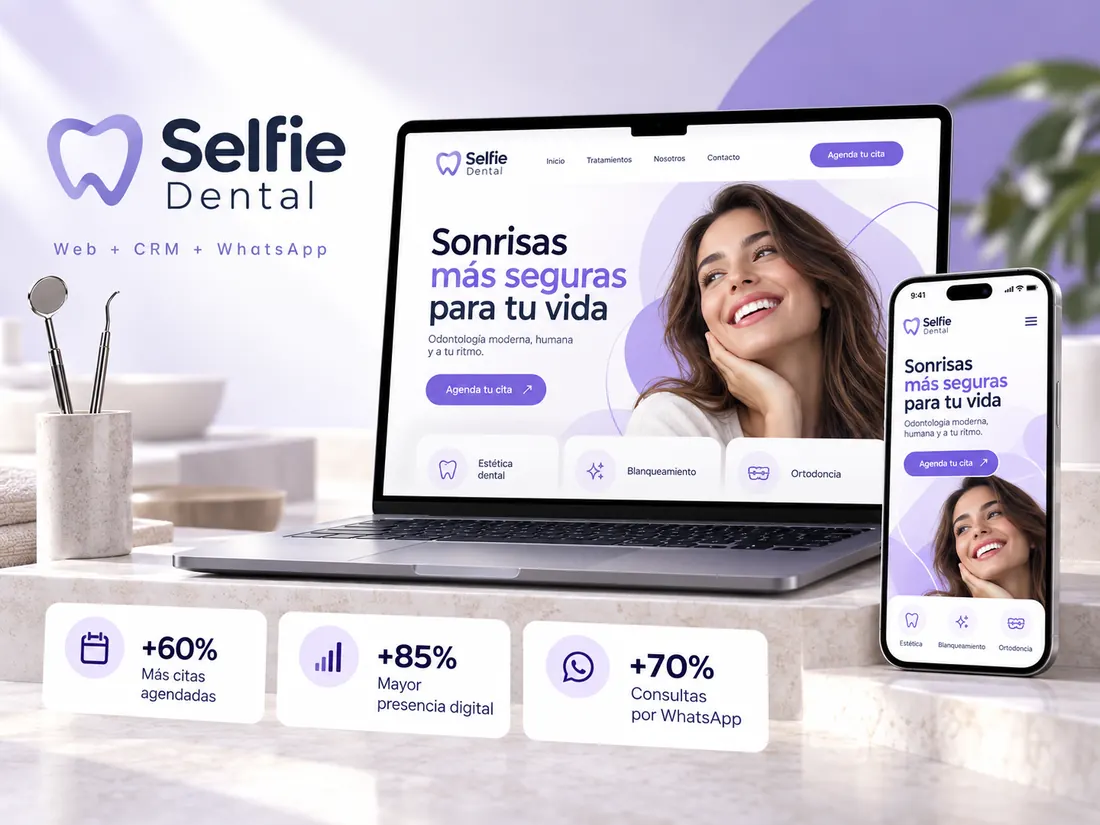
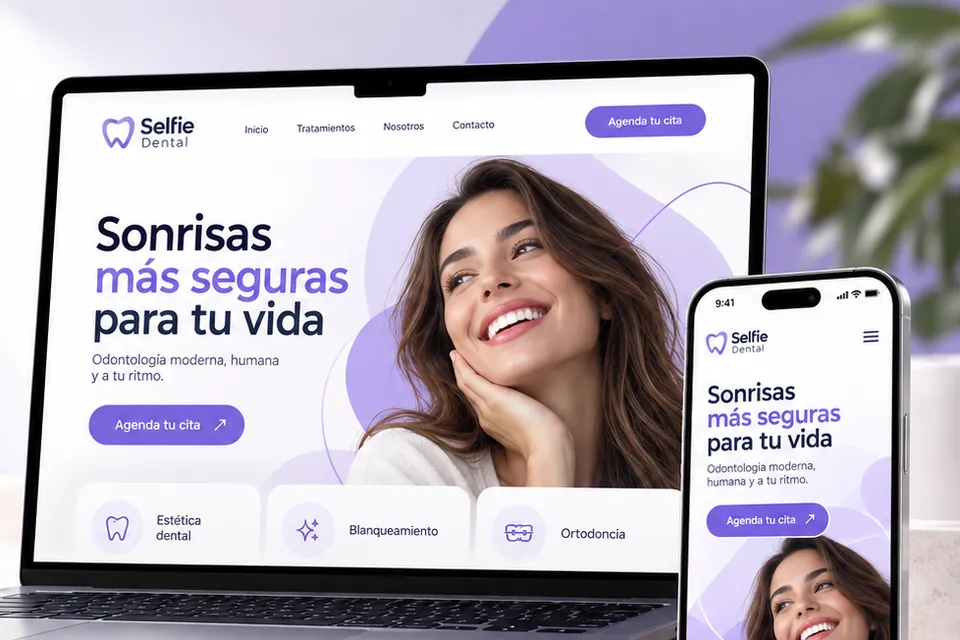
Proyectos como conceptos: quitar métricas no reales
Raíces Santorini, Selfie Dental y Yakutours son conceptos de diseño, no
clientes con resultados medidos. Se renombra la sección a "Proyectos
recientes" con etiqueta "Concepto", se quitan las cifras del hero, de los
casos y de las imágenes (recortadas), y la franja de clientes pasa a
mostrar los sectores que atendemos.

diff --git a/index.html b/index.html
@@ -89,7 +89,7 @@
       <a class="logo" href="#inicio"><img src="assets/img/aida-logo.webp" width="400" height="167" alt="AIDA Digital Solutions, inicio"></a>
       <button class="menu-toggle" type="button" aria-controls="site-nav" aria-expanded="false"><span class="sr-only" data-menu-label>Abrir menú</span><span aria-hidden="true"></span><span aria-hidden="true"></span></button>
       <nav class="site-nav" id="site-nav" aria-label="Navegación principal">
-        <a href="#servicios">Servicios</a><a href="#proyectos">Casos</a><a href="#proceso">Cómo trabajamos</a><a href="#nosotros">Equipo</a><a href="#preguntas">Preguntas</a>
+        <a href="#servicios">Servicios</a><a href="#proyectos">Proyectos</a><a href="#proceso">Cómo trabajamos</a><a href="#nosotros">Equipo</a><a href="#preguntas">Preguntas</a>
       </nav>
       <a class="button button-small header-cta" href="#formulario">Diagnóstico gratis <b aria-hidden="true">→</b></a>
     </div>
@@ -102,22 +102,23 @@
       <div class="hero-copy">
         <h1>Convertimos tu web y tu WhatsApp en un sistema que <em>vende.</em></h1>
         <p>Web, SEO, CRM y automatización con IA, conectados. Para inmobiliarias, clínicas, turismo y negocios de servicios que quieren más clientes con menos trabajo manual.</p>
-        <div class="actions"><a class="button" href="#formulario">Agenda tu diagnóstico gratis <b aria-hidden="true">→</b></a><a class="button button-outline" href="#proyectos">Ver casos reales</a></div>
+        <div class="actions"><a class="button" href="#formulario">Agenda tu diagnóstico gratis <b aria-hidden="true">→</b></a><a class="button button-outline" href="#proyectos">Ver proyectos</a></div>
         <ul class="facts">
           <li><strong>+50</strong><span>proyectos<br>lanzados</span></li>
-          <li><strong>+68%</strong><span>reservas en línea<br>para Yakutours</span></li>
-          <li><strong>+60%</strong><span>citas agendadas<br>para Selfie Dental</span></li>
+          <li><strong>4</strong><span>especialistas,<br>un solo equipo</span></li>
+          <li><strong>7</strong><span>etapas conectadas<br>en tu sistema</span></li>
         </ul>
       </div>
     </section>
 
-    <section class="trust-strip" aria-label="Clientes">
+    <section class="trust-strip" aria-label="Sectores">
       <div class="trust-inner">
-        <p>Negocios que ya crecen con AIDA</p>
+        <p>Sistemas digitales para</p>
         <ul>
-          <li><b>Raíces Santorini</b><span>Inmobiliario</span></li>
-          <li><b>Selfie Dental</b><span>Salud</span></li>
-          <li><b>Yakutours</b><span>Turismo</span></li>
+          <li><b>Inmobiliarias</b></li>
+          <li><b>Clínicas y salud</b></li>
+          <li><b>Turismo y hoteles</b></li>
+          <li><b>Negocios de servicios</b></li>
         </ul>
       </div>
     </section>
@@ -210,27 +211,24 @@
 
     <section class="cases section" id="proyectos">
       <div class="cases-intro reveal">
-        <div><p class="eyebrow">CASOS DE ÉXITO</p><h2>Negocios como el tuyo,<br><span>ya creciendo.</span></h2></div>
-        <p>Cada proyecto empieza con un problema de negocio concreto y termina con un número que se puede medir.</p>
+        <div><p class="eyebrow">PROYECTOS RECIENTES</p><h2>Así se ve un <span>sistema AIDA.</span></h2></div>
+        <p>Conceptos de diseño desarrollados por nuestro equipo para distintos sectores. Pronto, casos con resultados de clientes.</p>
       </div>
       <div class="case-list">
         <article class="case-card reveal reveal-image">
-          <img src="assets/img/case-raices.webp" width="1100" height="825" loading="lazy" decoding="async" alt="Landing de Raíces Santorini, proyecto residencial en Cayambe, en laptop y celular">
-          <div class="case-meta"><b>Raíces Santorini</b><span>Inmobiliario</span></div>
+          <img src="assets/img/case-raices.webp" width="960" height="640" loading="lazy" decoding="async" alt="Concepto de landing para Raíces Santorini, proyecto residencial en Cayambe, en laptop y celular">
+          <div class="case-meta"><b>Raíces Santorini</b><span>Inmobiliario</span><span class="case-tag">Concepto</span></div>
           <p class="case-scope">Landing + WhatsApp + SEO</p>
-          <p class="case-result"><strong>+60%</strong> leads más calificados</p>
         </article>
         <article class="case-card reveal reveal-image">
-          <img src="assets/img/case-selfie-dental.webp" width="1100" height="825" loading="lazy" decoding="async" alt="Sitio web de Selfie Dental con agenda de citas, en laptop y celular">
-          <div class="case-meta"><b>Selfie Dental</b><span>Salud</span></div>
+          <img src="assets/img/case-selfie-dental.webp" width="960" height="640" loading="lazy" decoding="async" alt="Concepto de sitio web para Selfie Dental con agenda de citas, en laptop y celular">
+          <div class="case-meta"><b>Selfie Dental</b><span>Salud</span><span class="case-tag">Concepto</span></div>
           <p class="case-scope">Web + CRM + WhatsApp</p>
-          <p class="case-result"><strong>+60%</strong> citas agendadas</p>
         </article>
         <article class="case-card reveal reveal-image">
-          <img src="assets/img/case-yakutours.webp" width="1100" height="825" loading="lazy" decoding="async" alt="Sitio web de Yakutours con buscador de tours en Ecuador, en laptop y celular">
-          <div class="case-meta"><b>Yakutours</b><span>Turismo</span></div>
+          <img src="assets/img/case-yakutours.webp" width="960" height="640" loading="lazy" decoding="async" alt="Concepto de sitio web para Yakutours con buscador de tours en Ecuador, en laptop y celular">
+          <div class="case-meta"><b>Yakutours</b><span>Turismo</span><span class="case-tag">Concepto</span></div>
           <p class="case-scope">Rediseño web + reservas</p>
-          <p class="case-result"><strong>+68%</strong> reservas en línea</p>
         </article>
       </div>
     </section>
@@ -321,7 +319,7 @@
   <footer>
     <div class="wrap footer-inner">
       <a class="logo footer-logo" href="#inicio"><img src="assets/img/aida-logo.webp" width="400" height="167" loading="lazy" alt="AIDA Digital Solutions, inicio"></a>
-      <nav aria-label="Navegación de pie"><a href="#servicios">Servicios</a><a href="#proyectos">Casos</a><a href="#proceso">Cómo trabajamos</a><a href="#nosotros">Equipo</a><a href="#formulario">Diagnóstico gratis</a><a href="privacidad.html">Privacidad</a></nav>
+      <nav aria-label="Navegación de pie"><a href="#servicios">Servicios</a><a href="#proyectos">Proyectos</a><a href="#proceso">Cómo trabajamos</a><a href="#nosotros">Equipo</a><a href="#formulario">Diagnóstico gratis</a><a href="privacidad.html">Privacidad</a></nav>
       <p>Ideas digitales para un <span>mundo <em>real.</em></span></p>
       <ul class="contact-links contact-links-footer" data-contact-links hidden></ul>
       <small>© <span data-year>2026</span> AIDA Digital Solutions</small>

diff --git a/styles.css b/styles.css
@@ -164,6 +164,7 @@ a:focus-visible, button:focus-visible, input:focus-visible { outline: 3px solid 
 .case-meta { display: flex; gap: 8px; align-items: center; margin-top: 18px }
 .case-meta span, .case-meta b { padding: 7px 12px; border-radius: 999px; background: #e8f3ff; font-size: 12px }
 .case-meta b { background: var(--navy); color: #fff }
+.case-meta .case-tag { background: transparent; border: 1px solid #bcc9d9; color: var(--muted) }
 .case-scope { margin: 12px 0 0; color: var(--muted); font-size: 14px; font-weight: 700 }
 .case-result { margin: 4px 0 0; font-size: 14px }
 .case-result strong { margin-right: 4px; color: var(--blue); font-size: 22px; letter-spacing: -.02em }
@@ -172,10 +173,10 @@ a:focus-visible, button:focus-visible, input:focus-visible { outline: 3px solid 
 .trust-strip { padding: 22px var(--edge); background: var(--navy); color: #fff }
 .trust-inner { width: min(1280px, 100%); margin: auto; display: flex; align-items: center; justify-content: space-between; gap: 18px 40px; flex-wrap: wrap }
 .trust-inner p { margin: 0; color: #b5c1d0; font-size: 13px; font-weight: 700; letter-spacing: .04em }
-.trust-inner ul { display: flex; flex-wrap: wrap; gap: 14px 44px; margin: 0; padding: 0; list-style: none }
+.trust-inner ul { display: flex; flex-wrap: wrap; gap: 10px 12px; margin: 0; padding: 0; list-style: none }
 .trust-inner li { display: flex; align-items: baseline; gap: 10px }
-.trust-inner b { font-size: 18px; letter-spacing: -.02em }
-.trust-inner span { color: #7fa6ff; font-size: 12px; font-weight: 700 }
+.trust-inner b { font-size: 17px; letter-spacing: -.01em }
+.trust-inner li + li::before { content: "·"; margin-right: 12px; color: #7fa6ff }
 
 /* process */
 .process { background: #fff }

diff --git a/DECISIONS.md b/DECISIONS.md
@@ -4,6 +4,6 @@
 - La composición orbital es una interpretación editorial inspirada en la forma de la marca, no una copia del logo.
 - No se han inventado logos de clientes, testimonios, resultados, premios, casos, precios, personas, canales de contacto ni otras pruebas de marca. Tampoco se usaron imágenes de stock o generadas.
 - El formulario se envía al `formEndpoint` configurado en `app.js`, o en su defecto abre WhatsApp o correo con el mensaje redactado. Nunca confirma un envío que no ocurrió.
-- Las cifras de los casos (+60%, +68%) se tomaron de los mockups entregados por el cliente.
+- Raíces Santorini, Selfie Dental y Yakutours son conceptos de diseño, no clientes con resultados medidos: se muestran como «Proyectos recientes» con la etiqueta «Concepto», y sus imágenes se recortaron para quitar las cifras ilustrativas de los mockups. Solo se publican métricas de clientes reales y con su autorización.
 - El contenido se marca como visible solo cuando JS corre (`.js .reveal`), para que la página nunca quede en blanco sin JavaScript.
 - Se priorizó HTML semántico, foco visible, etiquetas de formulario, diálogo accesible y reducción de movimiento cuando la persona lo solicita en su sistema.
